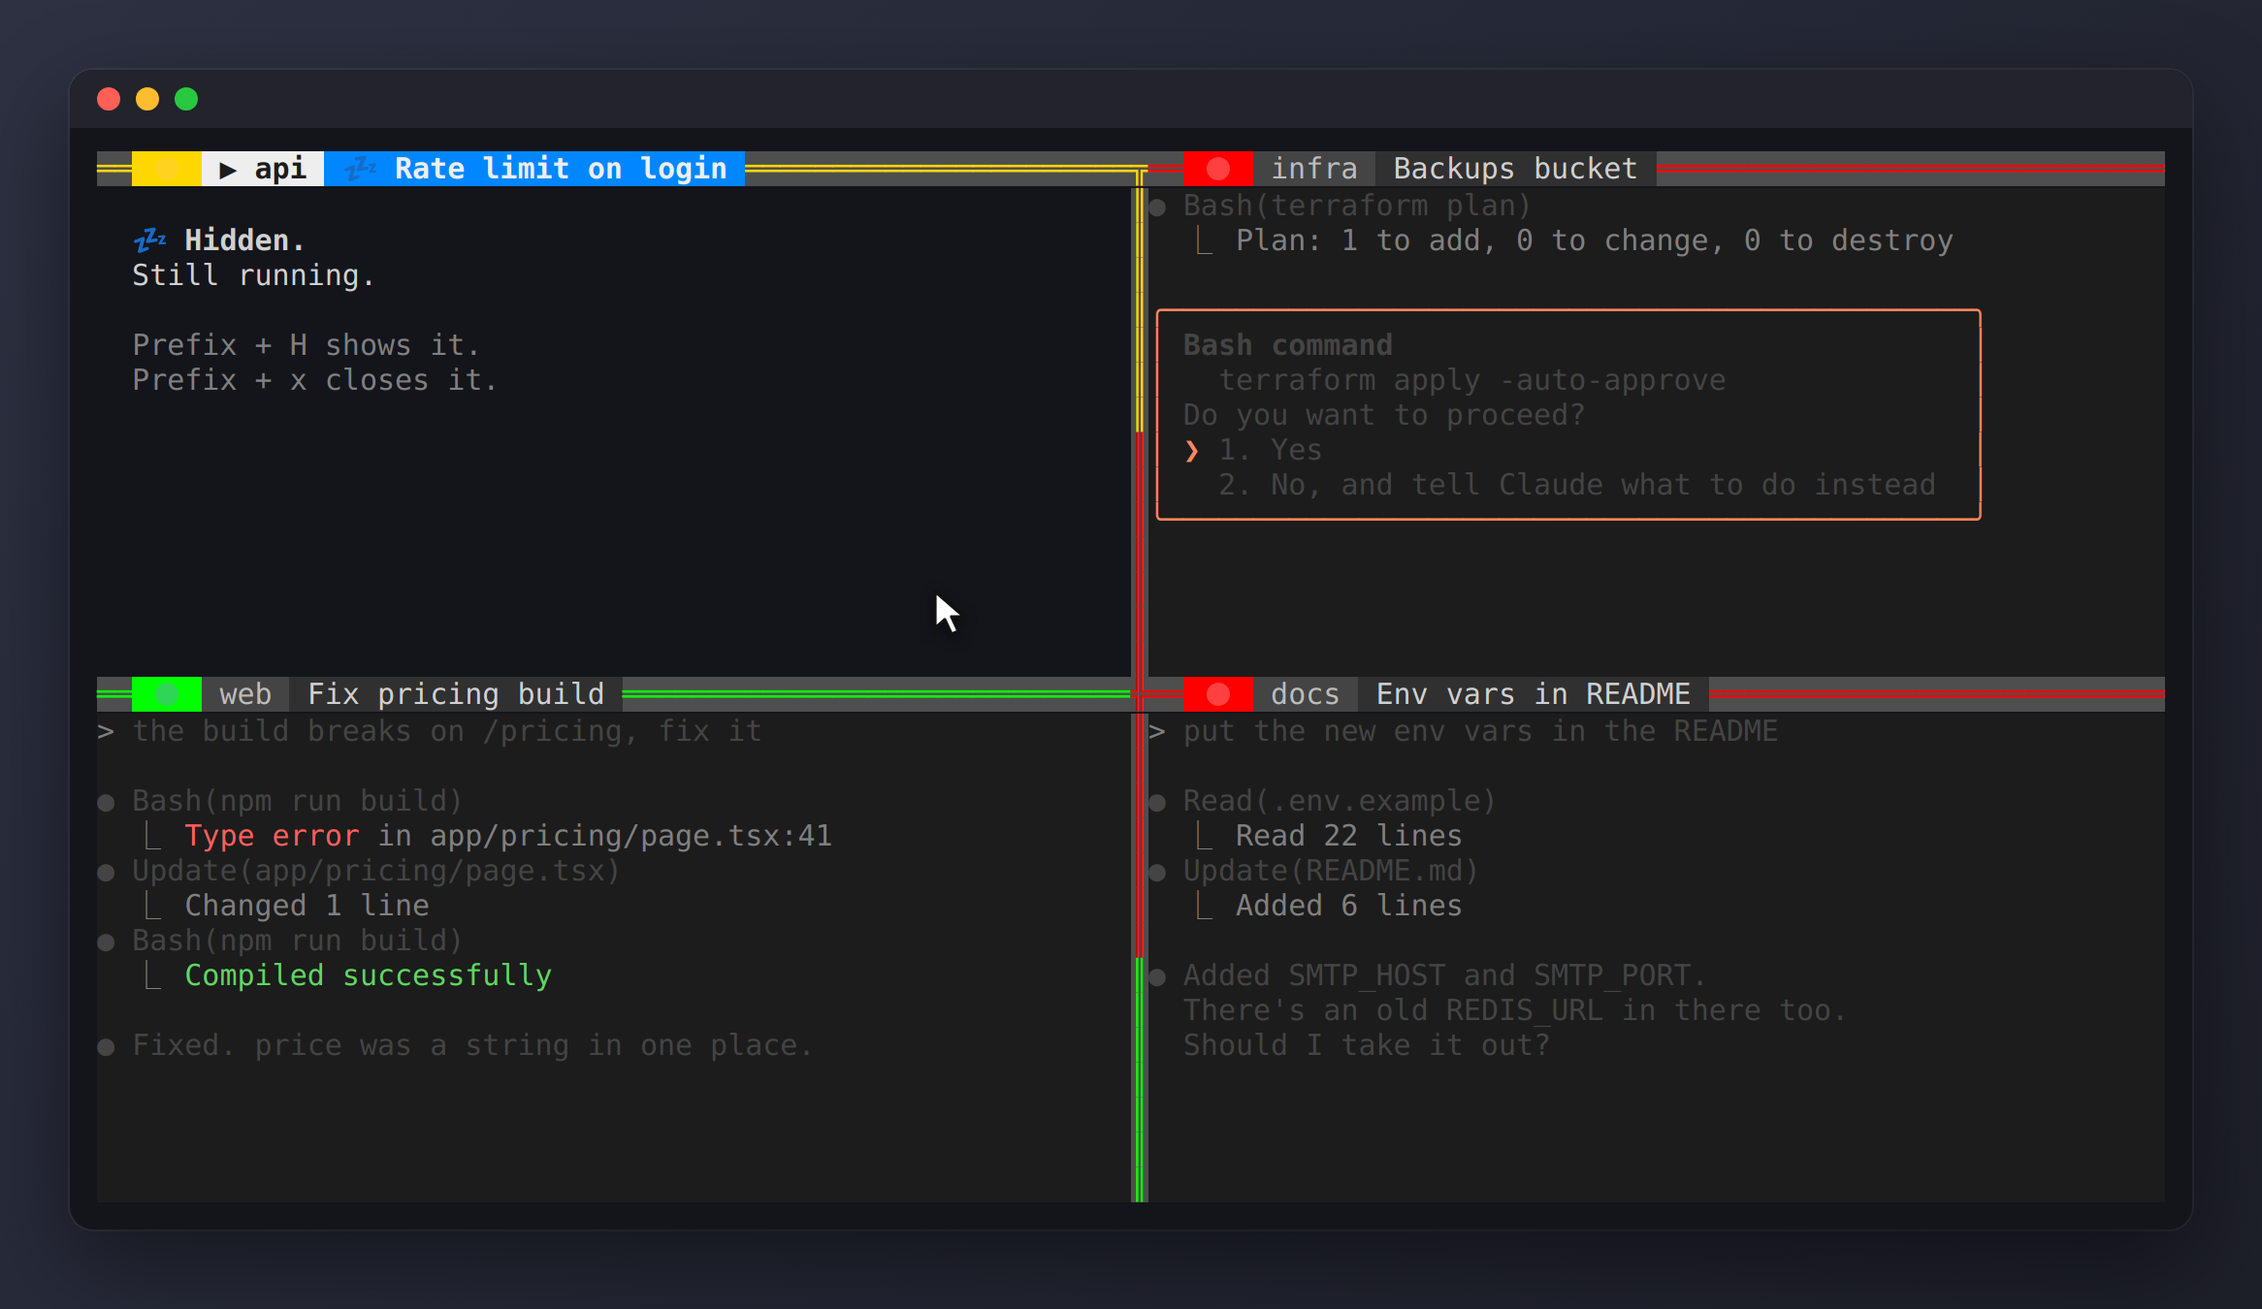
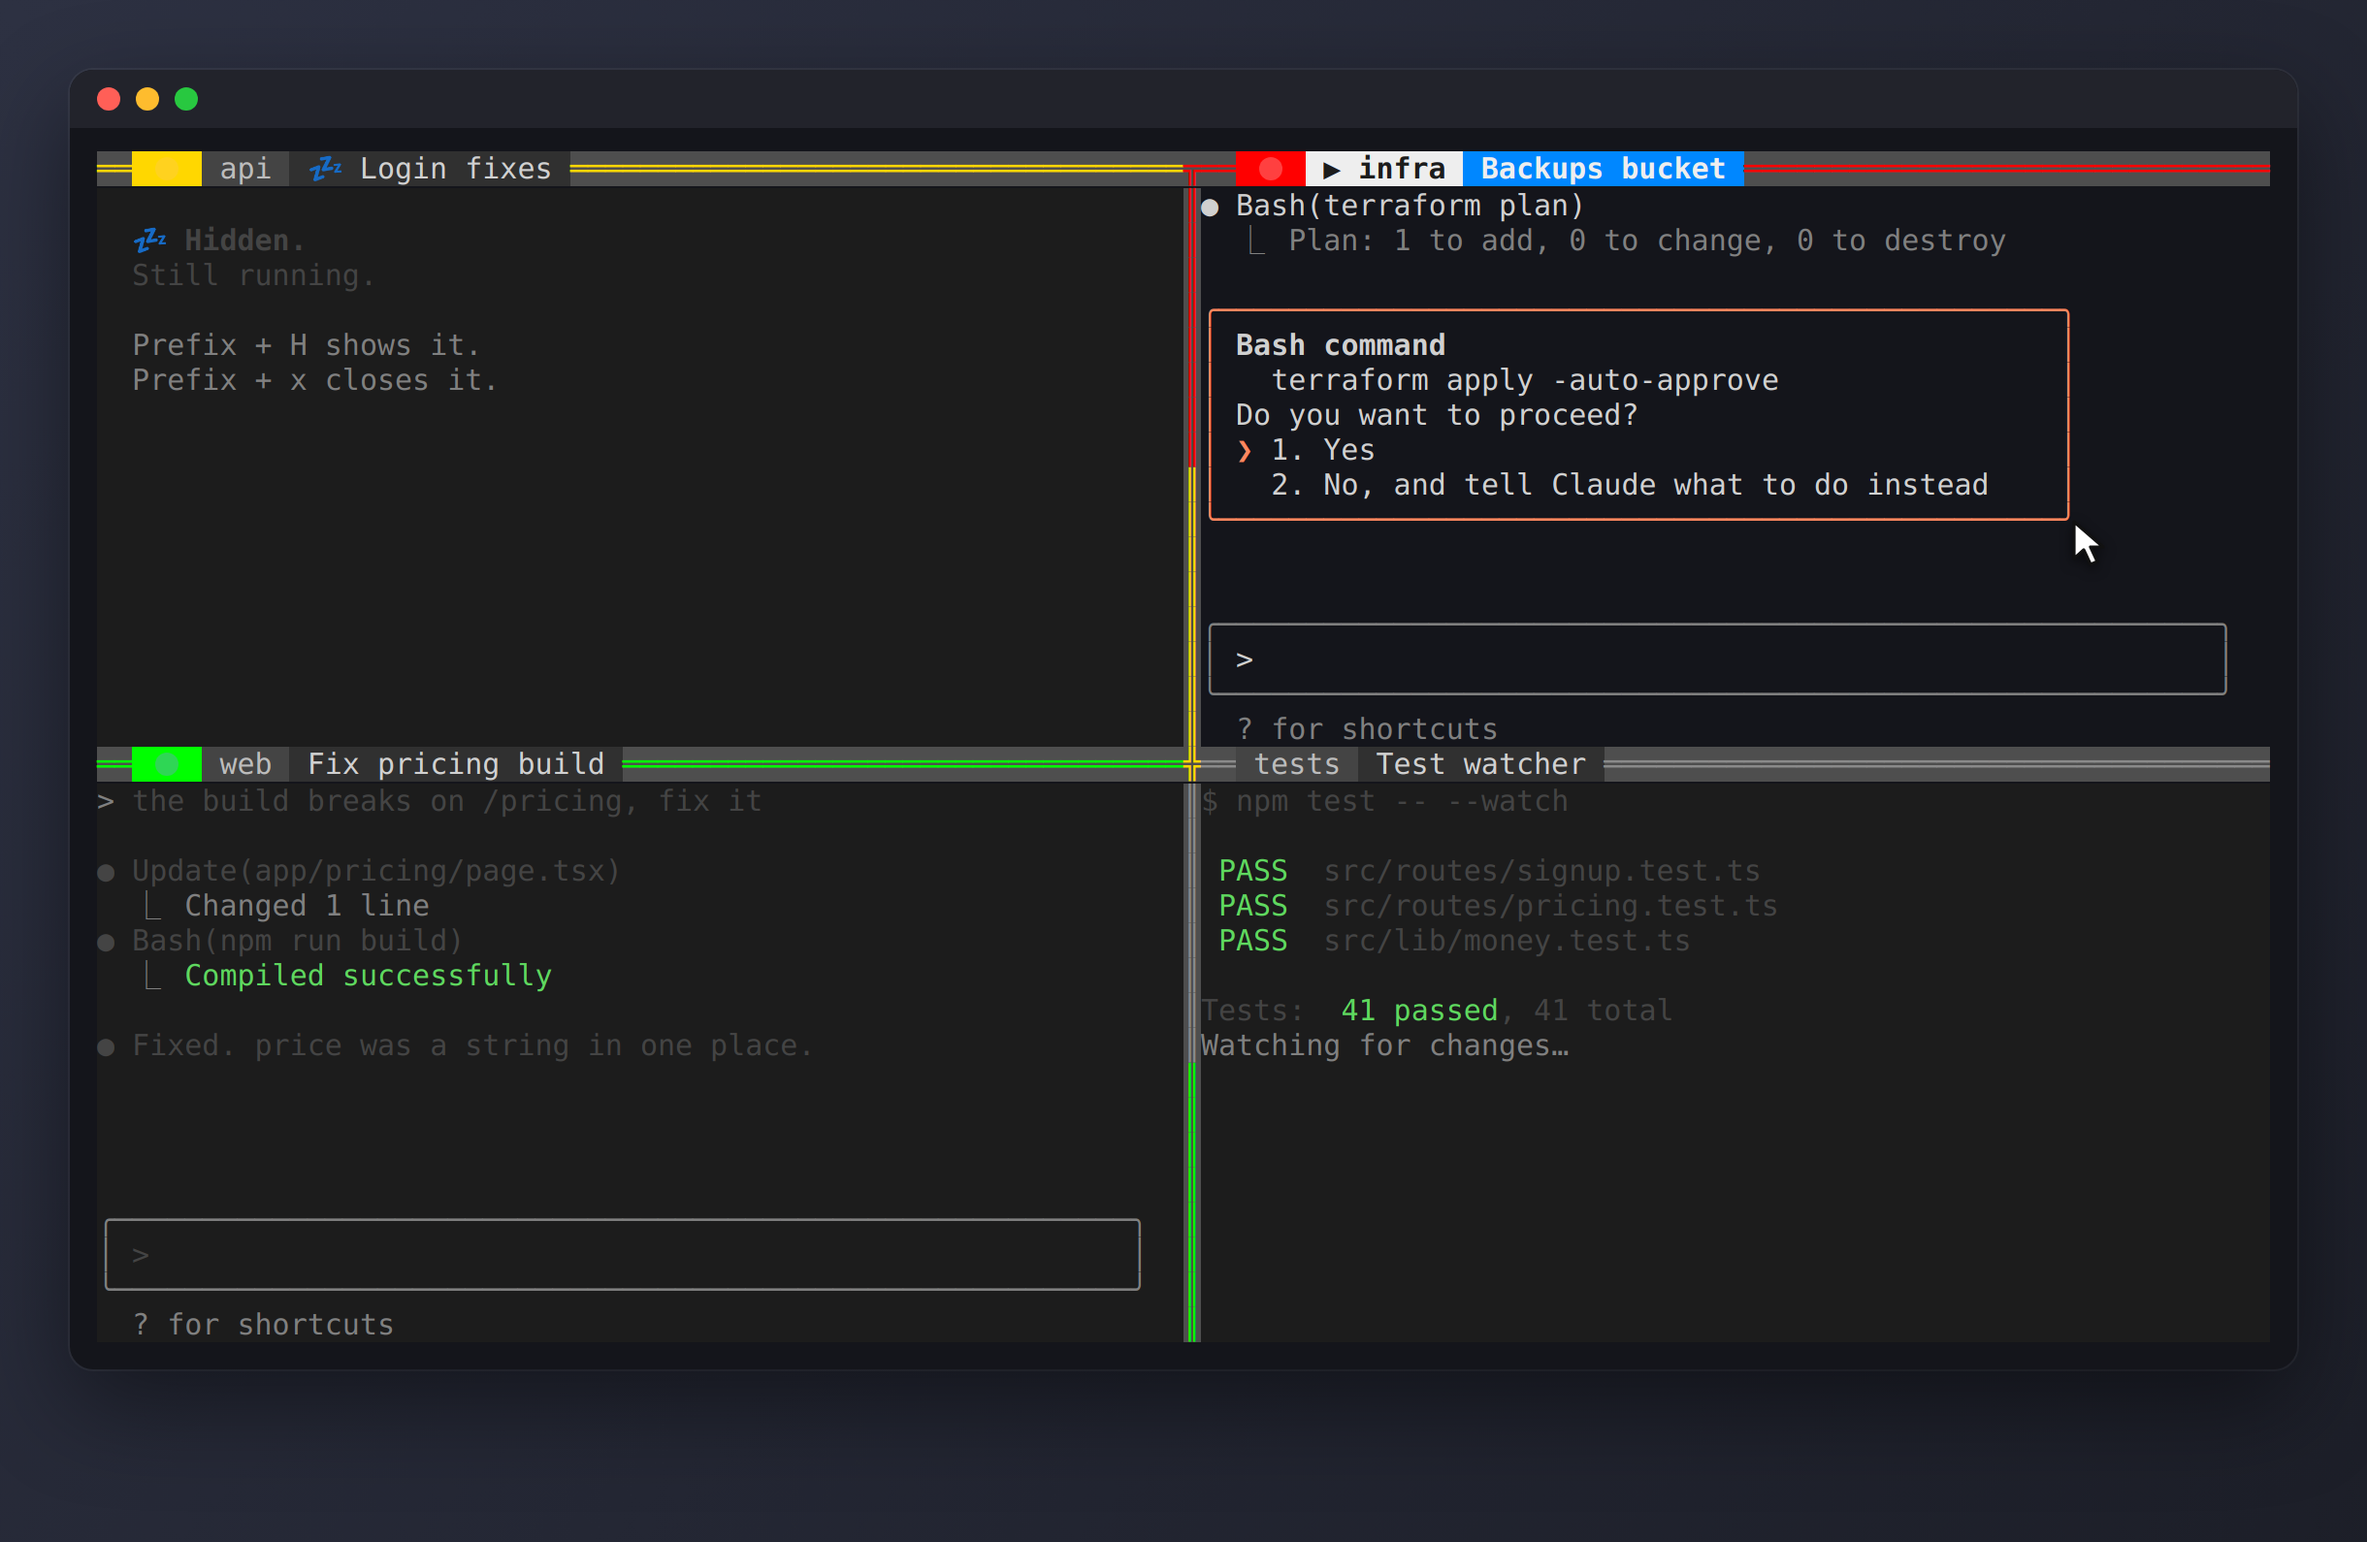
Tell a fuller story in the demo: hide a pane, answer a prompt, bring it back
Panes now look like real Claude Code sessions with an input box, one pane
is a plain shell, and key presses show as keycaps under the window.

Claude-Session: https://claude.ai/code/session_01B91ZH6jkB2d2N5TtUhwZmk

diff --git a/scripts/render.js b/scripts/render.js
@@ -1,7 +1,8 @@
 // Screenshots each fN.html in a folder, adding a mouse pointer that glides to
 // the pane selected in that frame and clicks it. Called by demo.sh.
 // Usage: node render.js <folder> <frame count>
-// Reads fN.dur (seconds on screen) and fN.cur ("col row" the pointer rests on).
+// Reads fN.dur (seconds on screen), fN.cur ("col row" the pointer rests on)
+// and fN.key (keys pressed for that frame, shown as keycaps; may be empty).
 // Writes the PNGs and list.txt, the ffmpeg concat list in playing order.
 const fs = require('node:fs');
 const path = require('node:path');
@@ -27,7 +28,8 @@ const POINTER = `<svg width="26" height="26" viewBox="0 0 26 26" style="display:
   async function load(i) {
     await page.goto('file://' + path.join(dir, `f${i}.html`));
     return page.evaluate((svg) => {
-      document.body.style.position = 'relative';
+      // room under the window for the keycaps, same size on every frame
+      Object.assign(document.body.style, { position: 'relative', paddingBottom: '84px' });
       const pre = document.querySelector('pre');
       const probe = document.createElement('span');
       probe.textContent = 'M'.repeat(100);
@@ -43,17 +45,26 @@ const POINTER = `<svg width="26" height="26" viewBox="0 0 26 26" style="display:
       ring.id = 'ring';
       ring.style.cssText = 'position:absolute;z-index:9;width:34px;height:34px;margin:-17px 0 0 -17px;border-radius:50%;' +
         'border:3px solid rgba(77,196,255,.95);box-shadow:0 0 12px rgba(77,196,255,.7);display:none';
-      document.body.append(ring, ptr);
+      const keys = document.createElement('div');
+      keys.id = 'keys';
+      keys.style.cssText = 'position:absolute;z-index:11;left:50%;bottom:18px;transform:translateX(-50%);display:none;' +
+        'gap:8px;padding:10px 14px;border-radius:12px;background:rgba(14,15,20,.88);box-shadow:0 8px 24px rgba(0,0,0,.5);' +
+        'font:600 20px/1 "DejaVu Sans",sans-serif;color:#fff';
+      document.body.append(ring, ptr, keys);
       return { x0: r.left - b.left + parseFloat(cs.paddingLeft), y0: r.top - b.top + parseFloat(cs.paddingTop),
                cw, ch: parseFloat(cs.lineHeight) };
     }, POINTER);
   }
   const px = (g, [c, r]) => [g.x0 + (c + 0.5) * g.cw, g.y0 + (r + 0.5) * g.ch];
-  async function snap(x, y, click, dur) {
-    await page.evaluate(([x, y, click]) => {
+  async function snap(x, y, click, dur, key = '') {
+    await page.evaluate(([x, y, click, key]) => {
+      const k = document.getElementById('keys');
+      k.style.display = key ? 'flex' : 'none';
+      k.innerHTML = key.split(/\s{2,}/).map((c) => '<span style="padding:7px 12px;border-radius:7px;background:#2e3140;' +
+        'border:1px solid #555a6e;border-bottom-width:3px">' + c + '</span>').join('');
       Object.assign(document.getElementById('ptr').style, { left: x + 'px', top: y + 'px' });
       Object.assign(document.getElementById('ring').style, { left: x + 'px', top: y + 'px', display: click ? 'block' : 'none' });
-    }, [x, y, click]);
+    }, [x, y, click, key]);
     const file = path.join(dir, `s${shot++}.png`);
     await page.locator('body').screenshot({ path: file });
     list.push([file, dur]);
@@ -78,7 +89,14 @@ const POINTER = `<svg width="26" height="26" viewBox="0 0 26 26" style="display:
     }
     const g = await load(i);
     const [x, y] = px(g, cur);
-    const file = await snap(x, y, false, Number(read(`f${i}.dur`)));
+    const key = read(`f${i}.key`), dur = Number(read(`f${i}.dur`));
+    let file;
+    if (key) { // the keycaps show for most of the frame, then the screen stays a bit without them
+      file = await snap(x, y, false, Math.min(1.0, dur), key);
+      if (dur > 1.0) await snap(x, y, false, dur - 1.0);
+    } else {
+      file = await snap(x, y, false, dur);
+    }
     fs.copyFileSync(file, path.join(dir, `f${i}.png`));
     prev = cur;
   }
